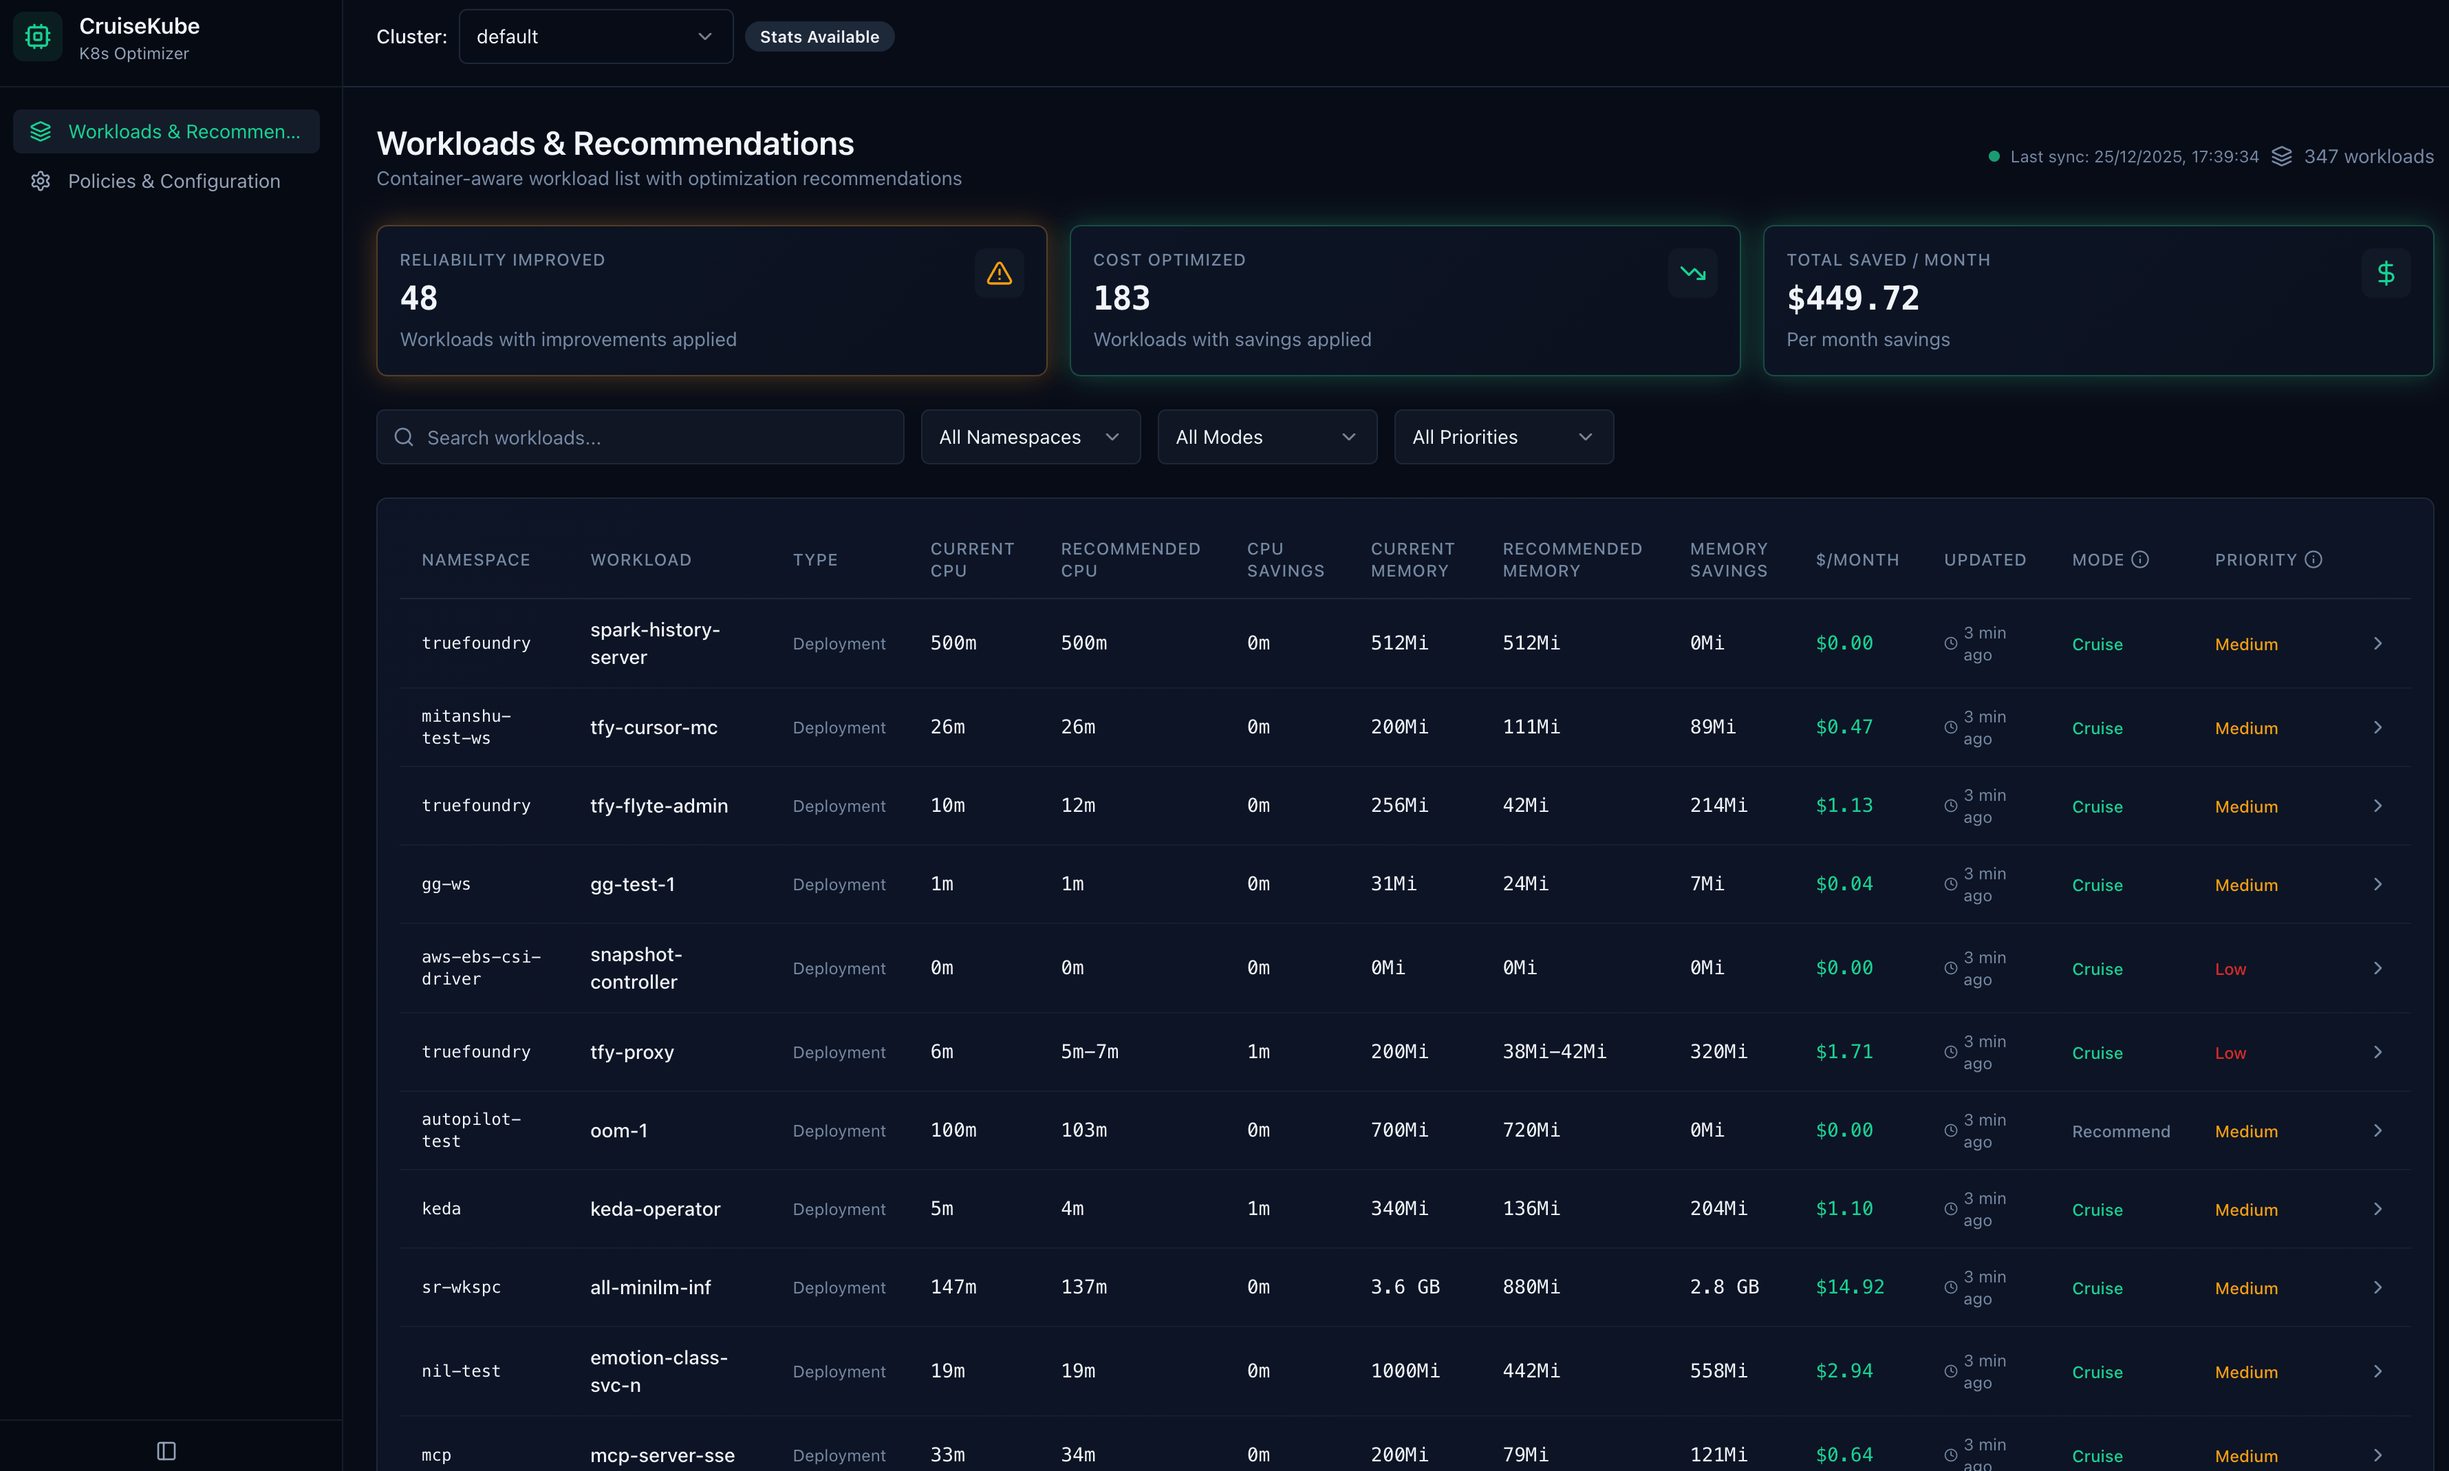
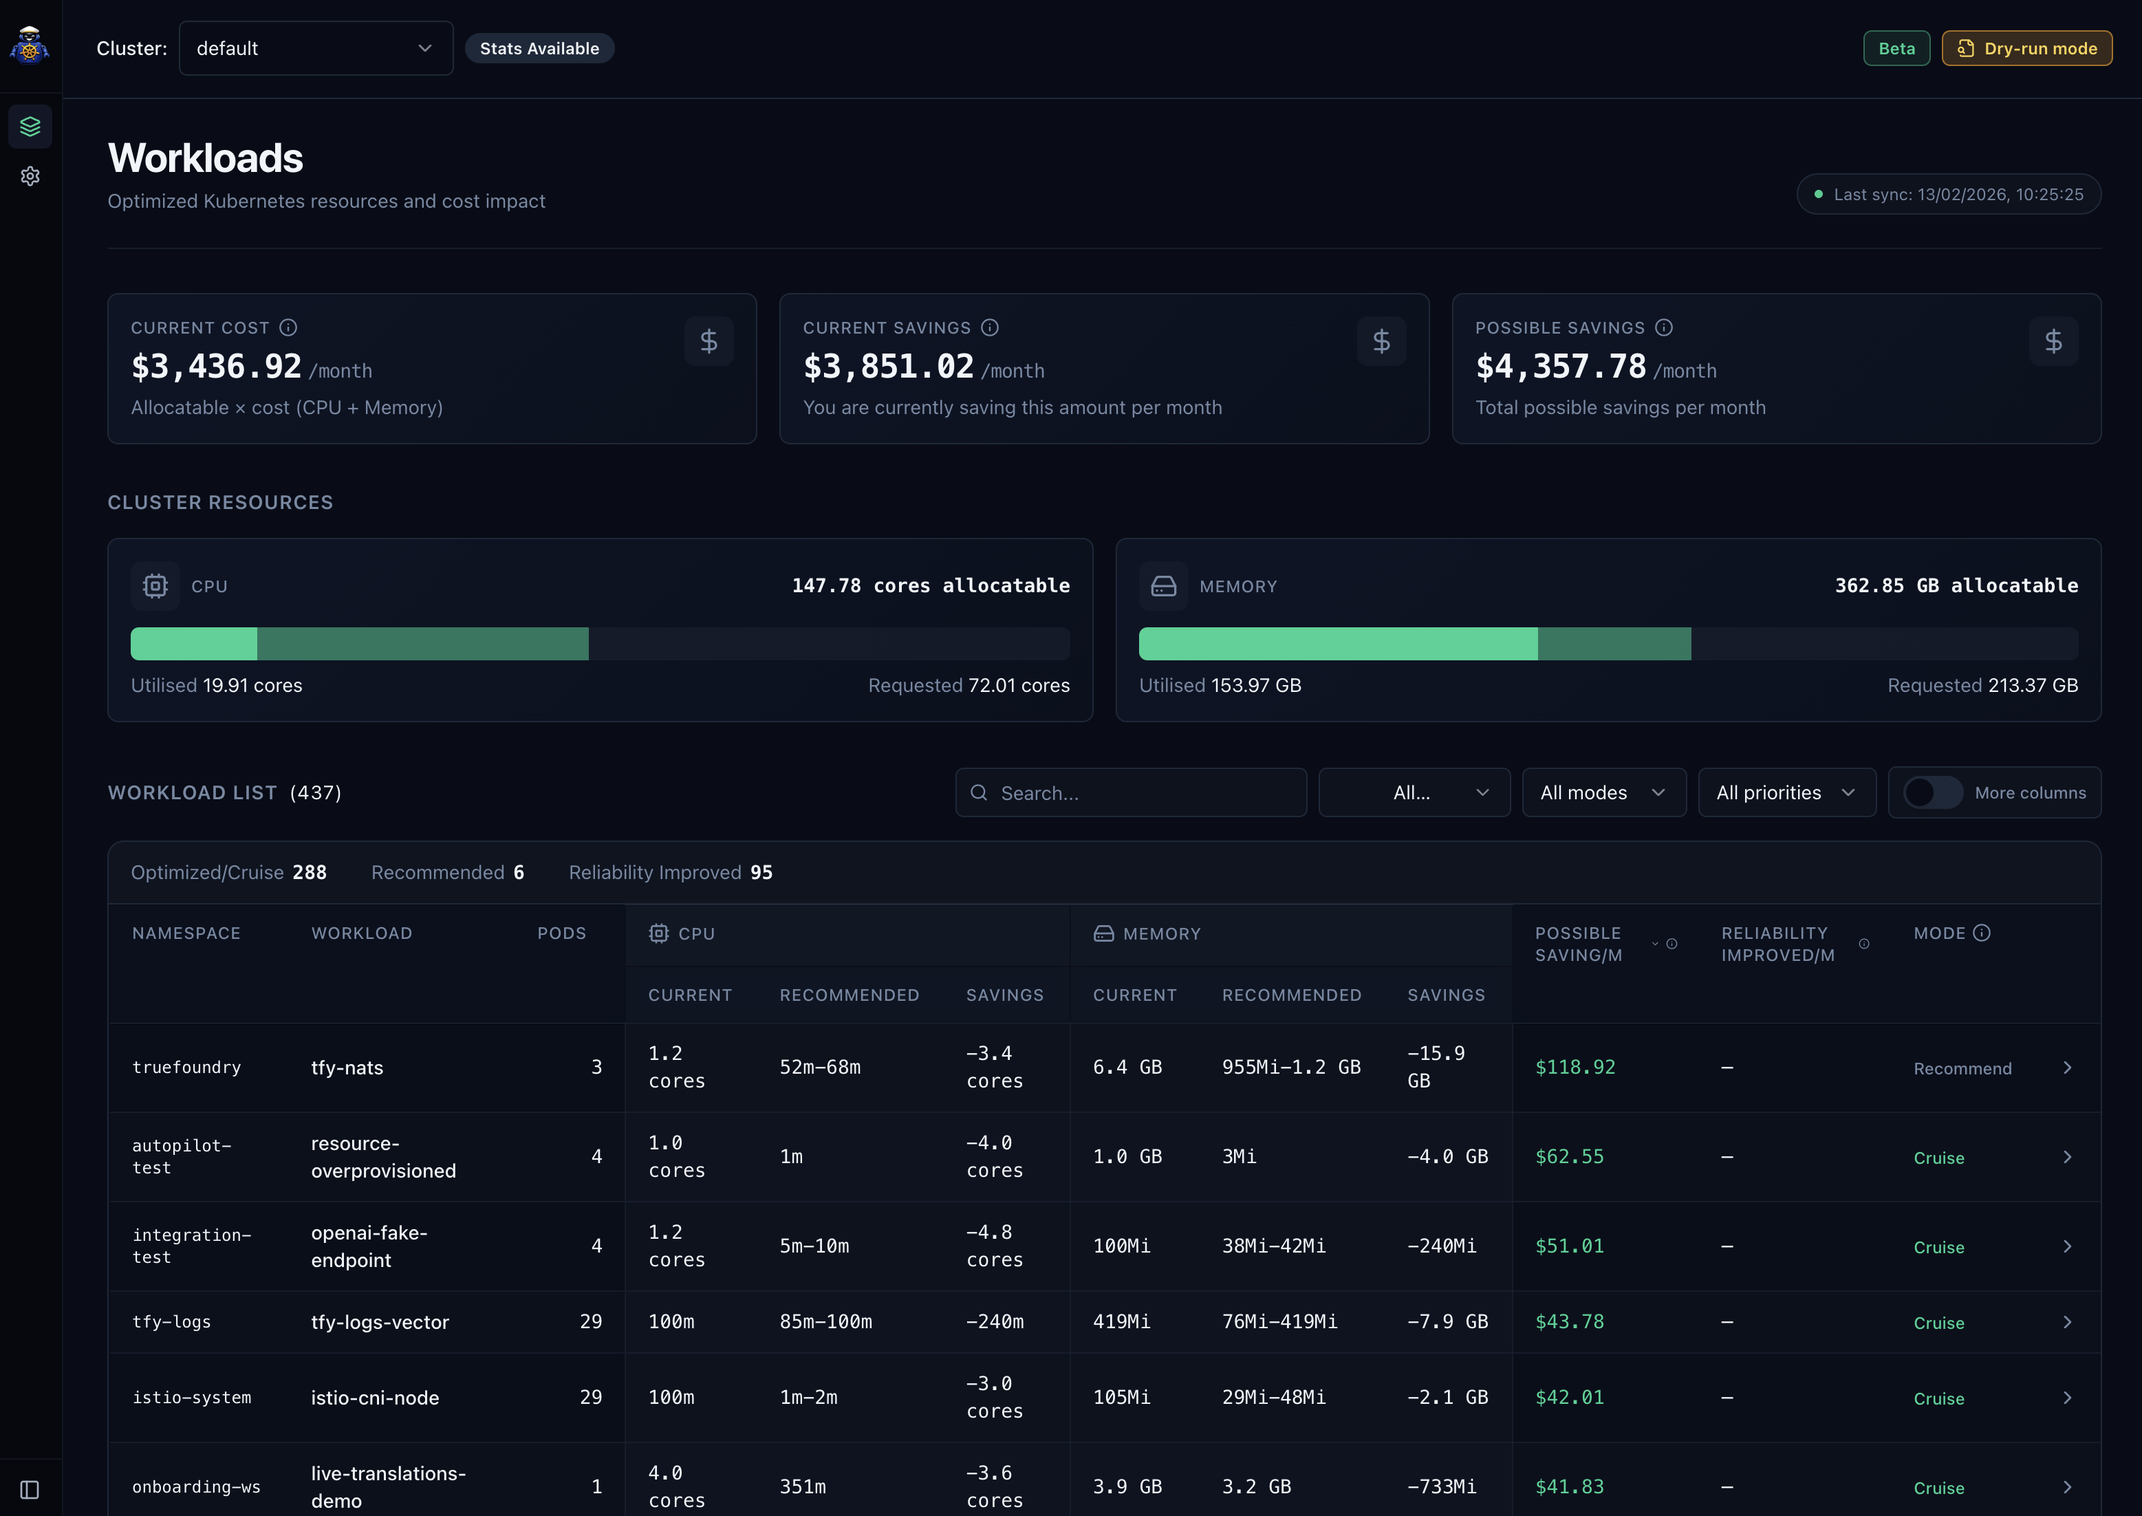
feat: update docs

diff --git a/docs/src/gs-installation.md b/docs/src/gs-installation.md
@@ -22,7 +22,9 @@ Get started by following below steps:
 - **Postgresql:** We require a postgresql database, you can pass your own, or enable it in CruiseKube helm chart, for CruiseKube managed postgresql.
 - **Prometheus:** You should have a prometheus installed in your cluster.
 ??? example "Installing Prometheus"
-    We will setup a sample prometheus to read metrics from the ingress controller. Please not, if a Prometheus instance is already installed, 
+    We can setup a Prometheus instance if not already present.
+    
+    Please note, if a instance is already installed, new installation might fail. You can pass the existing Prometheus instance when installing CruiseKube.
 
     ```bash
     helm repo add prometheus-community https://prometheus-community.github.io/helm-charts
@@ -43,10 +45,13 @@ Install CruiseKube from the OCI registry:
 
 ```bash
 helm install cruisekube oci://tfy.jfrog.io/tfy-helm/cruisekube --namespace cruisekube-system --create-namespace \ 
-  --set cruisekubeController.env.CRUISEKUBE_DEPENDENCIES_INCLUSTER_PROMETHEUSURL="http://prometheus-kube-prometheus-prometheus.monitoring.svc:9090"
+  --set cruisekubeController.env.CRUISEKUBE_DEPENDENCIES_INCLUSTER_PROMETHEUSURL="http://prometheus-kube-prometheus-prometheus.monitoring.svc:9090" \ 
+  --set postgresql.enabled=true \ 
+
 ```
 
-Pass your own prometheus URL if using an existing installation. 
+- Pass your own prometheus URL if using an existing installation.
+- If you want to use your own postgresql set `postgresql.enabled` to false, and pass the value in the global section of [values.yaml](https://github.com/truefoundry/CruiseKube/blob/main/charts/cruisekube/values.yaml#L3)
 
 > **Note:** You can customize the installation by providing your own `values.yaml` file with specific configurations. See the [configuration documentation](config.md) for available options.
 
@@ -64,24 +69,7 @@ You should see pods like `cruisekube-controller-manager-xxx` and `cruisekube-web
 
 </br>
 
-### **3. Enable Tasks**
-
-By default, all the mutating tasks are disabled. This is to prevent any unintended optimizations. 
-You will need to manually enable each task based on your requirements. To do this, you will need to pass environment variables in the values file to the Helm chart.
-
-
-1. **Configure prometheus for the Create Stats Task**
-    - By default the Create Stats task is enabled. But it needs access to prometheus.
-    - You need to configure prometheus URL in the env section of the values file. This will be used by the stats creation task to fetch metrics. Set `CRUISEKUBE_DEPENDENCIES_INCLUSTER_PROMETHEUSURL` to the URL of your Prometheus instance.
-
-3. **Enable Apply Recommendation Task**
-    - To enable this task, set the `CRUISEKUBE_CONTROLLER_TASKS_APPLYRECOMMENDATION_ENABLED` environment variable to `true` in your values file. Note this is currently in dry-run mode by default. So recommendations will only be generated but not applied.
-
-> Similarly, you can enable other tasks by checking the available environment variables in the [value.yaml file](https://github.com/truefoundry/CruiseKube/blob/main/charts/cruisekube/values.yaml#L88).
-
-</br>
-
-### **4. View Recommendations**
+### **3. View Recommendations**
 
 Once the tasks are enabled, you can view the recommendations generated by Port-Forwarding the frontend service.
 
@@ -97,11 +85,27 @@ Read more about configuration in the [Configuration Dashboard](config-dashboard.
 
 </br>
 
-### **5. Apply Recommendations**
+### **4. Apply Recommendations: Disable Dry-Run**
 
-Once you've reviewed the recommendations in the dashboard, you can disable the dry-run mode to actually apply the recommendations. 
+By default, dry-run mode is enabled, which means recommendations are generated, but not applied. This is to prevent any unintended optimizations. 
+You will need to manually disable each dry-run based on your requirements. To do this, you will need to pass environment variables in the values file to the Helm chart or upgrade while setting those env variables.
 
-To enable the apply recommendation task, set the `CRUISEKUBE_CONTROLLER_TASKS_APPLYRECOMMENDATION_DRYRUN` environment variable to `false` in your values file.
+
+1. **Configure prometheus for the Create Stats Task**
+    - By default the Create Stats task is enabled. But it needs access to prometheus.
+    - You need to configure prometheus URL in the env. This will be used by the stats creation task to fetch metrics. Set `CRUISEKUBE_DEPENDENCIES_INCLUSTER_PROMETHEUSURL` to the URL of your Prometheus instance.
+
+2. **Disable Dry-Run**
+    - There are a few flags controlling the dry-run, which is seperate of controller, and admission webhook. There is a seperate flag for memory also. Following false needs to be set to disable all dry-run.
+      - `cruisekubeController.env.CRUISEKUBE_RECOMMENDATIONSETTINGS_DISABLEMEMORYAPPLICATION=false` 
+      - `cruisekubeController.env.CRUISEKUBE_CONTROLLER_TASKS_APPLYRECOMMENDATION_METADATA_DRYRUN=false`
+      - `cruisekubeWebhook.env.CRUISEKUBE_RECOMMENDATIONSETTINGS_DISABLEMEMORYAPPLICATION=false`
+      - `cruisekubeWebhook.env.CRUISEKUBE_WEBHOOK_DRYRUN=false`
+
+> You can access all the available environment variables in the [value.yaml file](https://github.com/truefoundry/CruiseKube/blob/main/charts/cruisekube/values.yaml#L88).
+
+</br>
+
 
 
 ## Uninstall
